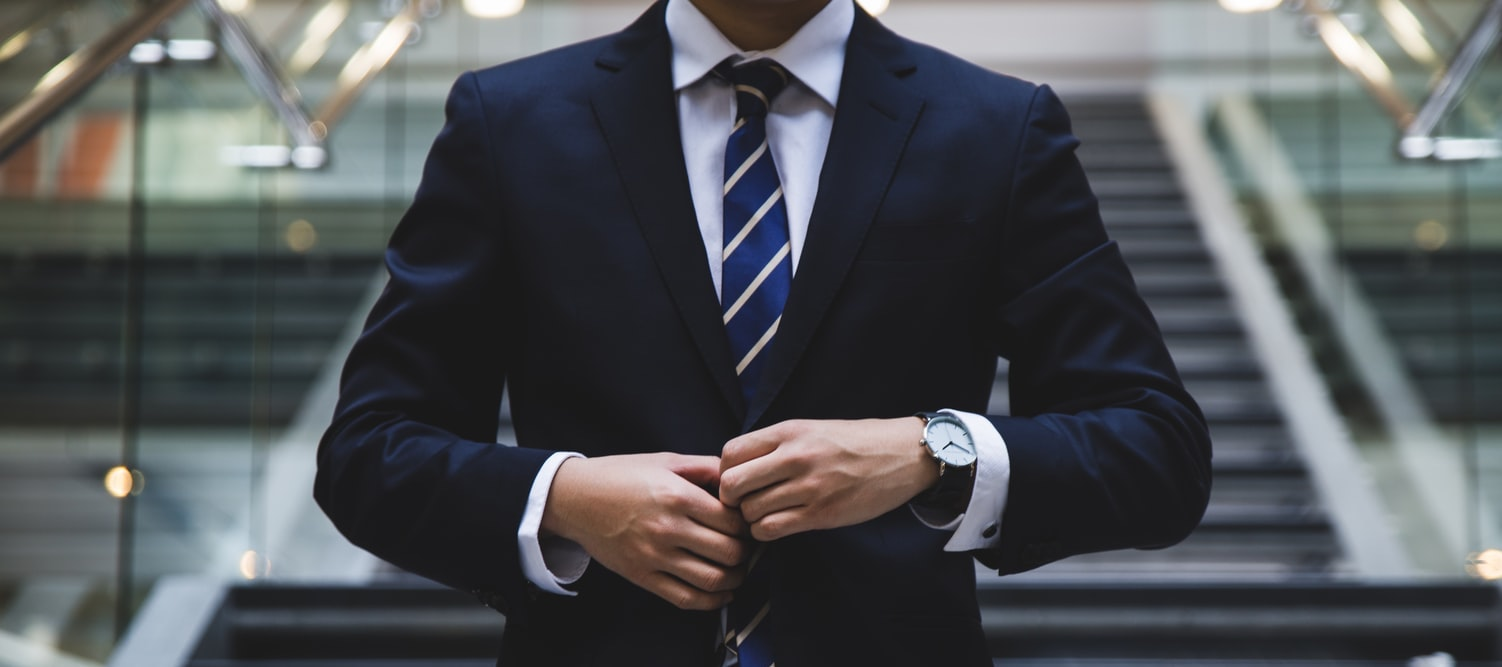
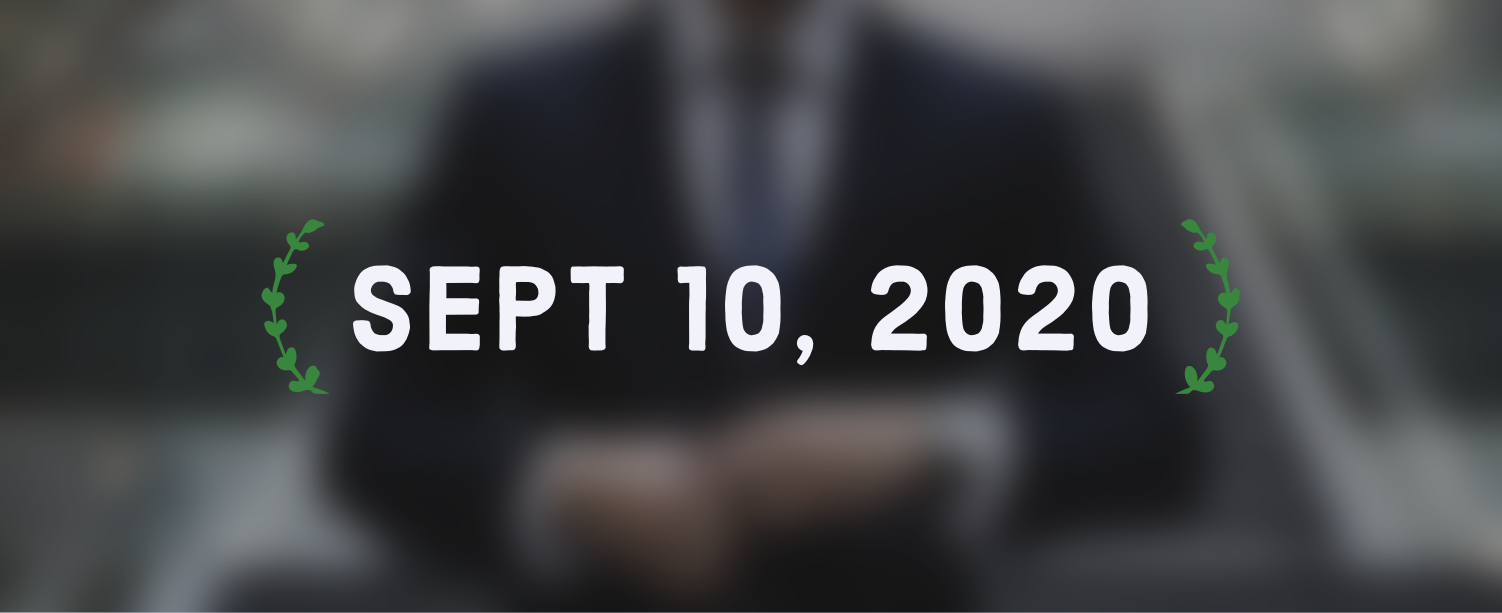
changed coverphoto

diff --git a/index.html b/index.html
@@ -67,9 +67,9 @@
         <br><br>
 
         <div class="container">
-            <h1>Good Evening!</h1>
-            <br><br>
+            <br>
             <img src="images/coverphoto.jpeg" alt=""><br><br><br>
+        <h2>Dear Members,</h2>
             <p>We are extremely excited to have everyone join us tonight for the Finance Society Fall 2020 Opening Social.
             On this site, you will find the virtual event links for tonight's opening social. Each box is embedded with a link to a Zoom meeting room.
         The event will begin at 7:00 P.M. and we'll start on the Main Stage. This is where the Opening Ceremony and Closing Ceremonies will be. Around 7:10 P.M.,
